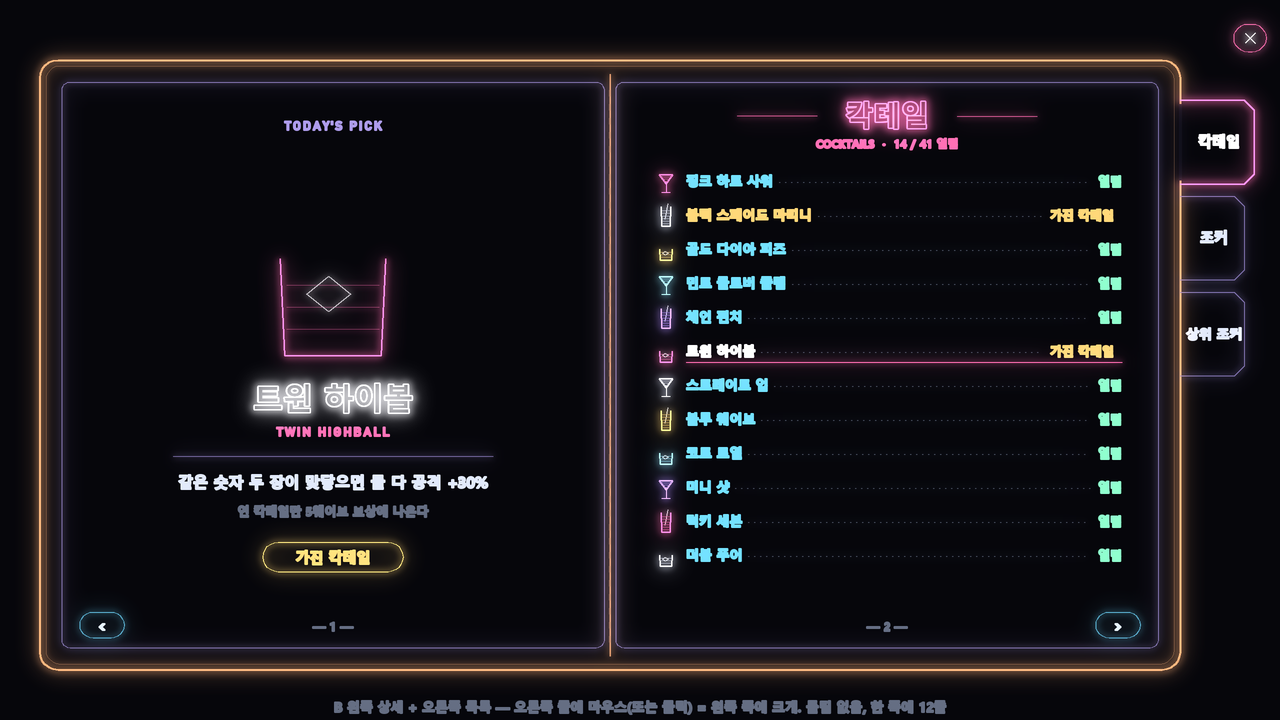
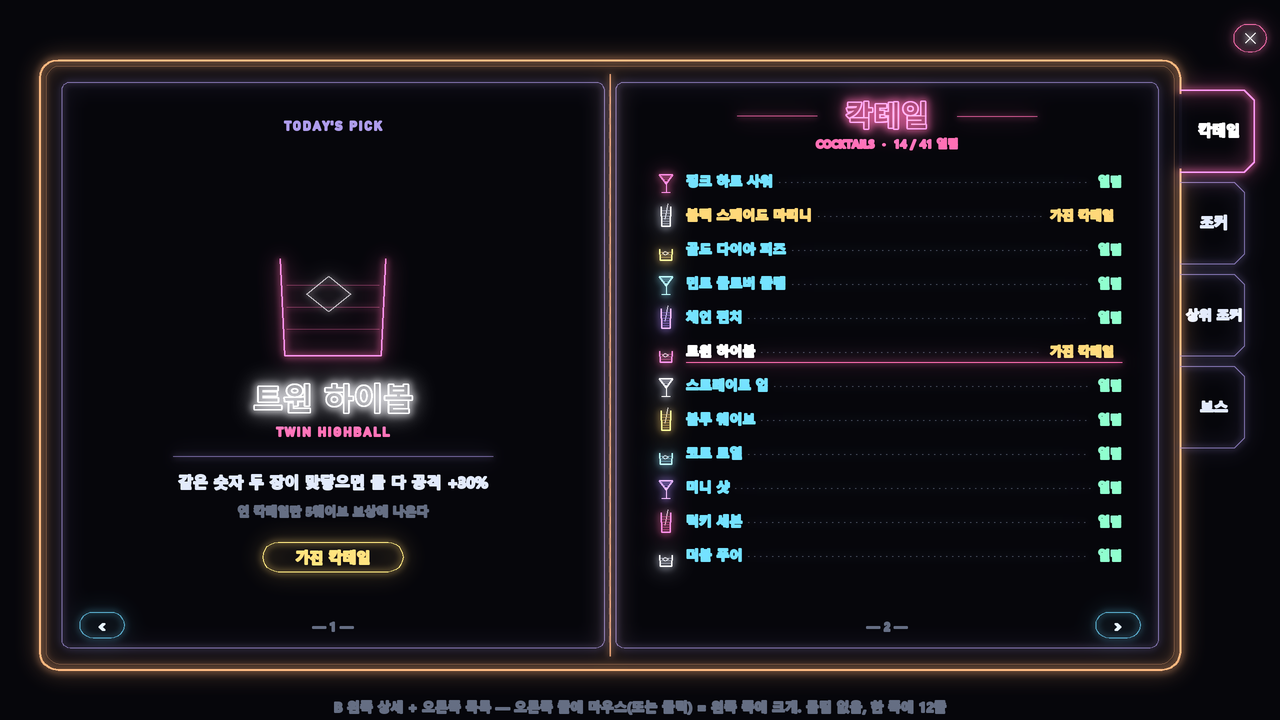
시안: 도감 책자 B 조커 쪽 + 보스 4번째 옆면 탭

Changed region(s): [[0.9062, 0.0917, 1.0, 0.5194], [0.9375, 0.55, 1.0, 0.6111], [0.9375, 0.6111, 0.9688, 0.6417]]

diff --git a/tools/neon/codex_book_mock.py b/tools/neon/codex_book_mock.py
@@ -41,7 +41,7 @@ def glass(M, kind, cx, by, s, c, b=1.0):
         M.ln([P(-12, -30), P(-2, -38), P(8, -30), P(-2, -22), P(-12, -30)], WHITE, 1.0, 0.6 * b)
 
 
-def book(M):
+def book(M, active=0):
     # 겉표지 (두 겹) + 쪽 (조금 안쪽) + 책등
     M.rr(BX, BY, BW, BH, 18, COVER, 2.2, 0.9)
     M.rr(BX + 6, BY + 6, BW - 12, BH - 12, 14, COVER, 0.8, 0.45)
@@ -51,10 +51,10 @@ def book(M):
     M.ln([(SPX, BY + 14), (SPX, BY + BH - 14)], COVER, 1.6, 0.8)
     for y in range(BY + 30, BY + BH - 24, 14): M.ln([(SPX - 1, y), (SPX - 1, y + 6)], COVER, 1.0, 0.5)  # 꿰맨 점선
     # 책갈피 탭: 책 오른쪽 옆면에 붙어 밖으로 나온 색인 탭, 위에서부터 칵테일 · 조커 · 상위 조커 (고른 탭은 더 길게 나옴)
-    tabs = [('칵테일', True), ('조커', False), ('상위 조커', False)]
+    tabs = [(nm, i == active) for i, nm in enumerate(('칵테일', '조커', '상위 조커', '보스'))]  # 보스는 4번째 탭 (사용자 2026-11-16)
     ex = BX + BW  # 책 오른쪽 옆면
     for i, (nm, on) in enumerate(tabs):
-        y0, h = BY + 40 + i * 96, 84
+        y0, h = BY + 30 + i * 92, 82
         w = 74 if on else 64
         c = PINK if on else LAV
         M.ln([(ex, y0), (ex + w - 10, y0), (ex + w, y0 + 10), (ex + w, y0 + h - 10), (ex + w - 10, y0 + h), (ex, y0 + h)], c, 1.8 if on else 1.2, 1.0 if on else 0.55)
@@ -147,10 +147,85 @@ def variant_B(out):
     M.draw().save(os.path.join(out, 'codex_book_B.png'))
 
 
+JOKERS = [('광대', '무늬 4종 공격을 번갈아 씀', '하이 카드', '×1.0'), ('모자 장수', '주변 8칸 타워 공격력 +25% · 사거리 +10%', '원 페어', '×1.2'),
+          ('웃는 가면', '주변 가장 강한 타워의 공격을 따라 함', '투 페어', '×1.3'), ('희비극', '두 적을 동시에 공격', '트리플', '×1.5'),
+          ('할리퀸', '판 위 같은 무늬 타워 전부 공격력 +30%', '플러시', '×2.0'), ('지휘봉', '주변 8칸 타워 연사 +40%', '스트레이트', '×2.0'),
+          ('잭', '아주 강한 한 방 (공격력 ×3, 연사 ×0.5)', '풀 하우스', '×2.5'), ('체셔', '사거리 무한: 가장 앞선 적 저격', '포카드', '×3.0'),
+          ('방울', '8초마다 종: 사거리 안 적 1.5초 멈춤', '스티플', '×3.5'), ('스타', '판 전체 레이저: 모든 적에게 피해', '로열', '×4.0')]
+KNOWN = {0, 1, 2, 4, 5}
+
+
+def jester(M, cx, cy, r, c, b=1.0):
+    """조커 그림 자리: 둥근 사각 틀 안 광대 모자 (세 갈래 + 방울) — 게임에선 JokerTower 스프라이트"""
+    from neon import circle
+    M.rr(cx - r, cy - r * 1.2, 2 * r, 2.4 * r, r * 0.3, c, 1.4, b)
+    s = r * 0.62
+    pts = [(cx - s, cy + s * 0.6), (cx - s * 0.9, cy - s * 0.5), (cx - s * 0.3, cy + s * 0.1), (cx, cy - s), (cx + s * 0.3, cy + s * 0.1), (cx + s * 0.9, cy - s * 0.5), (cx + s, cy + s * 0.6), (cx - s, cy + s * 0.6)]
+    M.ln(pts, c, 1.4, b)
+    for px, py in ((cx - s * 0.9, cy - s * 0.5), (cx, cy - s), (cx + s * 0.9, cy - s * 0.5)): M.ln(circle(px, py - s * 0.18, s * 0.14, 10), c, 1.1, b)
+
+
+def chip(M, x, y, s, c):
+    w = len(s) * 13 + 18
+    M.rr(x, y - 13, w, 22, 11, c, 1.1, 0.75)
+    M.word(x + w / 2, y + 3, s, c, 12, font=FONT_KO)
+    return w
+
+
+def variant_joker(out):
+    M = Sign(0.8); M.small_glow = 0.0
+    book(M, active=1)
+    lw = BW / 2 - 28
+    lx, rx = BX + 22, SPX + 6
+    JP = hx('ff9ad5')
+    # 오른쪽 쪽: 조커 10줄 (한 쪽에 다 들어가 쪽 넘김 없음)
+    head(M, rx, lw, '조커', 'JOKERS  ·  5 / 10 발견')
+    hover = 1
+    for i, (nm, ab, cap, tier) in enumerate(JOKERS):
+        y = BY + 128 + i * 42
+        known = i in KNOWN
+        c = JP if known else DIM
+        jester(M, rx + 50, y - 4, 9, c, 1.0 if known else 0.4)
+        nc = WHITE if i == hover else CYAN if known else DIM
+        tw = M.word(rx + 72, y + 2, nm if known else '???', nc, 14, font=FONT_KO, anchor_center=False)
+        M.word(rx + 72, y + 18, f'{cap} 대장', DIM, 10, font=FONT_KO, anchor_center=False)
+        right = tier if known else '?'
+        M.word(rx + lw - 36 - len(right) * 9, y + 2, right, MINT if known else DIM, 14, font=FONT_EN, anchor_center=False)
+        for dx in range(int(rx + 80 + tw), int(rx + lw - 50 - len(right) * 9), 6): M.ln([(dx, y - 2), (dx + 1.2, y - 2)], DIM, 1.2, 0.6)
+        if i == hover: M.ln([(rx + 72, y + 24), (rx + lw - 36, y + 24)], PINK, 1.0, 0.8)
+    # 왼쪽 쪽: 고른 조커 크게
+    cx = lx + lw / 2
+    nm, ab, cap, tier = JOKERS[hover]
+    jester(M, cx, BY + 170, 46, JP)
+    M.word(cx, BY + 268, nm, WHITE, 30, font=FONT_KO)
+    M.word(cx, BY + 292, f'{cap} 대장  ·  위력 {tier}', GOLD, 13, font=FONT_KO)
+    M.ln([(cx - 170, BY + 310), (cx + 170, BY + 310)], LAV, 1.0, 0.5)
+    M.word(cx, BY + 340, ab, FG, 15, font=FONT_KO)
+    M.word(cx, BY + 364, f'지휘: {cap} 타워 위력 +30% (겹침)', JP, 12, font=FONT_KO)
+    # 레시피: 족보 알약
+    M.word(lx + 60, BY + 410, '레시피', LAV, 12, font=FONT_KO, anchor_center=False)
+    x = lx + 60
+    M.word(x, BY + 440, '3개', DIM, 11, font=FONT_KO, anchor_center=False)
+    x += 30
+    for k, h in enumerate(('원 페어', '투 페어', '하이 카드')):
+        x += chip(M, x, BY + 436, h, CYAN) + 6
+        if k < 2: M.word(x - 1, BY + 440, '+', DIM, 12, font=FONT_EN, anchor_center=False); x += 12
+    x = lx + 60
+    M.word(x, BY + 476, '2개', DIM, 11, font=FONT_KO, anchor_center=False)
+    x += 30
+    for k, h in enumerate(('원 페어', '트리플')):
+        x += chip(M, x, BY + 472, h, CYAN) + 6
+        if k < 1: M.word(x - 1, BY + 476, '+', DIM, 12, font=FONT_EN, anchor_center=False); x += 12
+    M.word(cx, BY + 520, '족보 3개(또는 2개)를 골라 레시피와 맞으면 조커 · 판 어디에 있어도 된다', DIM, 11, font=FONT_KO)
+    M.word(640, 712, 'B 조커 쪽 — 오른쪽: 10줄 (그림 · 이름 · 대장 족보 ····· 위력), 왼쪽: 고른 조커 크게 + 능력 · 지휘 · 레시피 알약. 모르는 조커는 ??? (레시피는 보임)', DIM, 12, font=FONT_KO)
+    M.draw().save(os.path.join(out, 'codex_book_joker.png'))
+
+
 def main(out):
     os.makedirs(out, exist_ok=True)
     variant_A(out)
     variant_B(out)
+    variant_joker(out)
     print('ok')
 
 
